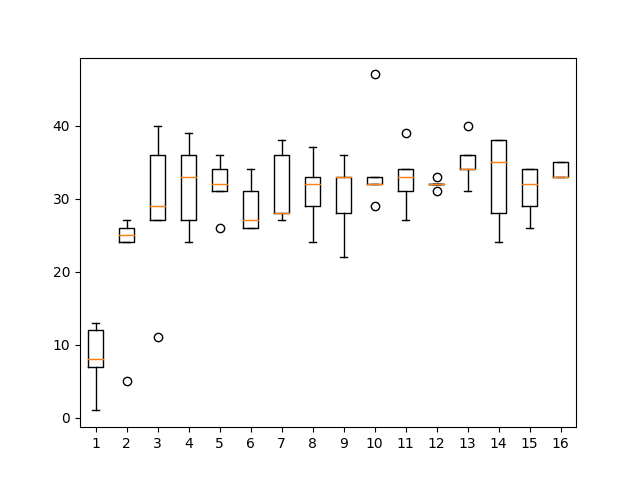
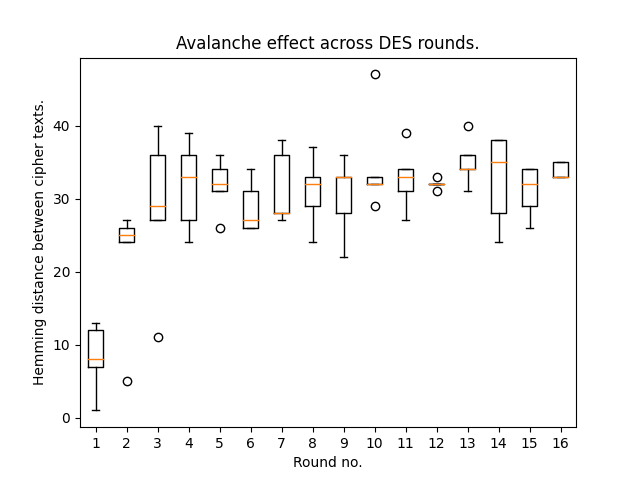
add labels and titles to boxplots

diff --git a/PA1_Avalanche_effect_DES_algo/main.py b/PA1_Avalanche_effect_DES_algo/main.py
@@ -42,10 +42,9 @@ def key_preparer(key, keyp, rkb, rk):
 
 
 def get_box_plots(delta_ct, save_plot_path):
-    """
-    Generates and stores the box plots of the delta_ct results of our experiments.
-    """
-
+    plt.title("Avalanche effect across DES rounds.")
+    plt.xlabel("Round no.")
+    plt.ylabel("Hemming distance between cipher texts.")
     plt.boxplot(np.array(delta_ct).T.tolist())
     plt.savefig(save_plot_path)
     plt.show()
